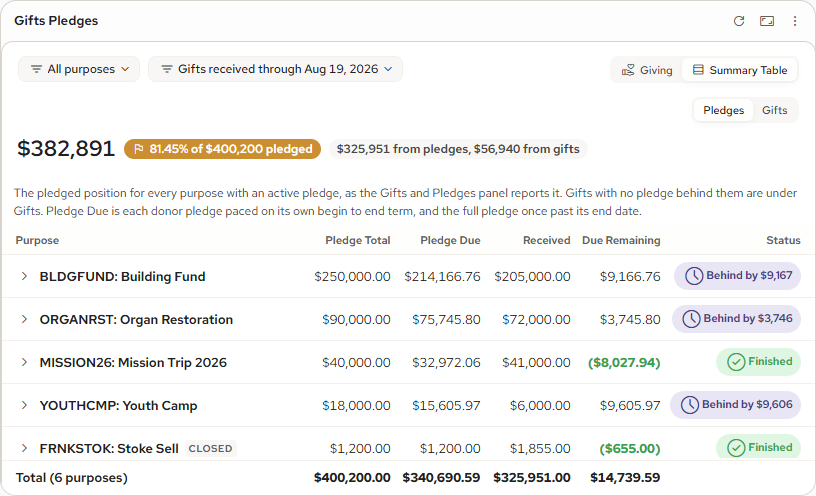
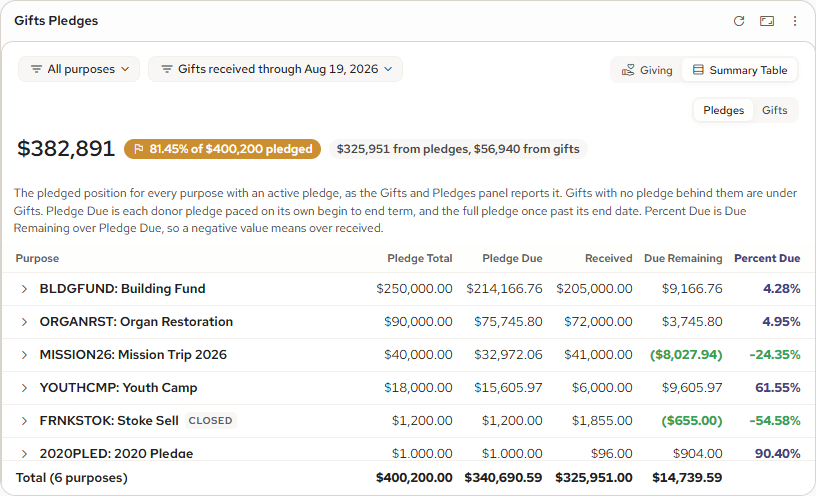
Gifts Pledges: purpose chip back on the Glance, Pledges table shows Percent Due at every size (owner, 11 Oct)
The purpose chip leads the Glance as on Deposits on Hand and Payroll Distributions,
with the pledged pill beside the figure so the Glance keeps its height. The Pledges
table is the panel's six columns everywhere, Status column removed. Driver 1043;
suite 3704 green; three shots retaken; handover bullets updated.

diff --git a/_tools/w17-gifts.driver.js b/_tools/w17-gifts.driver.js
@@ -131,7 +131,7 @@ A.eq(CAMPS[6].pledgeTotal, 0, "Memorial Gifts has no pledge"); A.ok(CAMPS[6].oth
       A.contains(html, "of $", "Glance shows the overall pledged read at " + v);
       A.contains(html, "from pledges", "Glance names the split at " + v);
       A.absent(html, 'data-gpf="view"', "no view toggle at Glance (" + v + ")");
-      A.absent(html, 'data-action="gpF-camp"', "no purpose chip at Glance (" + v + ")"); A.absent(html, 'data-action="gpF-thru"', "no date chip at Glance (" + v + ")");
+      A.contains(html, '<div class="kpi-num">' + ctx.gpFCampChip(w), "the purpose chip leads the Glance, where Deposits on Hand and Payroll Distributions put theirs (owner, 11 Oct)"); A.absent(html, 'data-action="gpF-thru"', "no date chip at Glance (" + v + ")");
       A.absent(html, 'data-gpf="export"', "no export at Glance (" + v + ")");
       A.absent(html, "Gifts and Pledges", "Glance does not repeat the card title inside itself (owner, 28 Sep)");
       A.absent(html, "scope-chip", "and carries no scope chip at all (" + v + ")");
@@ -178,8 +178,10 @@ A.eq(CAMPS[6].pledgeTotal, 0, "Memorial Gifts has no pledge"); A.ok(CAMPS[6].oth
 });
 /* the six baseline columns, in the live product's order */
 const tbl = ctx.gpFContentRoot(fresh("gpF", { size: "xwide", gpFView: "table" }));
-["Purpose", "Pledge Total", "Pledge Due", "Received", "Due Remaining", "Percent Due", "Status"]
+["Purpose", "Pledge Total", "Pledge Due", "Received", "Due Remaining", "Percent Due"]
   .forEach(function (c) { A.contains(tbl, ">" + c + "<", "summary column present: " + c); });
+A.absent(tbl, ">Status<", "no Status column in the Pledges table (owner, 11 Oct: the panel's six columns, Percent Due included)");
+A.contains(ctx.gpFContentRoot(fresh("gpF", { size: "wide", gpFView: "table" })), ">Percent Due<", "Percent Due shows at Explore as well as Detail (owner, 11 Oct)");
 A.contains(tbl, "gpf-total-row", "totals row rendered (her total row class)");
 /* totals sum the first four money columns; Percent Due is NOT summed */
 const totCells = /gpf-sumtotal"[\s\S]*?<\/div>\s*$/.test(tbl) || tbl.indexOf("gpf-sumtotal") > -1;
@@ -747,7 +749,7 @@ A.cssDeclares(shell.css, [
   "gpf-cap", "gpf-tblwrap", "gpf-scroll", "gpf-sumrow", "gpf-sumtotal", "gpf-caret",
   "gpf-nmtxt", "gpf-nm", "gpf-nmsub", "gpf-drill-tbl", "gpf-drawer",
   "gpf-grow", "gpf-gref", "gpf-giftfoot", 
-  "gpf-mi-date", "gpf-datepick", "gpf-date-input", "gpf-c-st", "gpf-thru-long", "gpf-thru-short", "gpf-modal", "gpf-panel", "gpf-panel-h", "gpf-panel-big", "gpf-dot"
+  "gpf-mi-date", "gpf-datepick", "gpf-date-input", "gpf-thru-long", "gpf-thru-short", "gpf-modal", "gpf-panel", "gpf-panel-h", "gpf-panel-big", "gpf-dot"
 ], "every gpf- class our markup uses is declared");
 
 /* ------------------------- 9. the Rule 11 stub, present and labelled */
@@ -1265,8 +1267,8 @@ A.eq((shell.script.match(/gpFCamp:"All purposes",gpFPlExp:\{\}/g) || []).length,
      of the 166px it needs. It is derivable from two columns in the same row, and it stays in
      every row's screen-reader line at every size, so nothing is lost, only moved. */
   const pWide = ctx.gpFPledgesTable(fresh("gpF", { size: "wide", gpFView: "table" }), false);
-  A.absent(pWide, "Percent Due", "Explore drops the Percent Due column");
-  A.absent(pWide, "gpf-c-pct", "and its cells with it, header, rows and totals alike");
+  A.contains(pWide, "Percent Due", "Explore shows the Percent Due column too (owner, 11 Oct: the panel's six columns at every size)");
+  A.contains(pWide, "gpf-c-pct", "with its cells, header, rows and totals alike");
   A.contains(pWide, "percent due ", "while every row still says it to a screen reader");
   A.contains(pTbl, "Percent Due", "Detail keeps the column");
   ["Pledge Total", "Pledge Due", "Received", "Due Remaining"].forEach(function (h) {
@@ -1299,14 +1301,15 @@ A.eq((shell.script.match(/gpFCamp:"All purposes",gpFPlExp:\{\}/g) || []).length,
   A.eq(ctx.gpFStatusLabelRow("gifts", 0), "Gifts only, no pledge", "a gifts-only purpose keeps its own words");
   A.eq(typeof ctx.gpFStatusLabel, "undefined", "the pace-band labeller is gone"); A.eq(typeof ctx.gpFBandFromDays, "undefined", "and the day bands with it");
   ["Fully paid", "Up to date", "30+ days ahead", "About a month behind", "60+ days behind", "Fully funded"].forEach(function (s) { A.absent(block, "'" + s + "'", "old status word gone from the block: " + s); });
-  /* the Status column in the Pledges table */
+  /* the Pledges table stays the panel's own six columns; the status words live in the header badge,
+     the Giving rows and the ledger (owner, 11 Oct, second round: "Remove Status from the table on
+     pledges and change to Percent Due") */
   const pTable = ctx.gpFPledgesTable(tw, false);
-  A.contains(pTable, '<span class="gpf-c-st">Status</span>', "the Pledges table has a Status header (owner, 11 Oct)");
-  A.eq((pTable.match(/class="gpf-c-st"><span class="gpf-dstatus /g) || []).length, rows.length, "and a status chip on every row");
-  A.ok(/gpf-sumtotal[\s\S]*?<span class="gpf-c-st"><\/span>/.test(pTable), "the totals row leaves Status blank");
-  A.headMatchesBody(pTable, "header and body carry the Status cell alike (D12)");
-  A.contains(ctx.gpFPledgesTable(fresh("gpF", { size: "wide", gpFView: "table" }), false), '<span class="gpf-c-st">Status</span>', "Status shows at Explore too");
-  A.contains(shell.css, ".gpf-root .gpf-c-st{", "and has its column rule");
+  A.absent(pTable, "gpf-c-st", "no Status column in the Pledges table"); A.absent(pTable, "gpf-dstatus", "and no status chip in its rows");
+  A.eq(typeof ctx.gpFRowChip, "undefined", "the row chip builder is gone"); A.absent(shell.css, ".gpf-c-st", "and its column rule");
+  A.contains(ctx.gpFPledgesTable(fresh("gpF", { size: "wide", gpFView: "table" }), false), '<span class="gpf-c-n gpf-c-pct">Percent Due</span>', "Percent Due shows at Explore");
+  A.ok(ctx.gpFWidePct(fresh("gpF", { size: "wide" })) === true, "at every size");
+  A.headMatchesBody(pTable, "header and body cells still match (D12)");
   /* per pledge: the same three words, from the pace object */
   const purpose = ctx.gpFCampByLabel(tw, LABELS[2]), thru = ctx.gpFThru(tw);
   const paces = ctx.gpFDonorsFor(purpose).map(function (pl) { return ctx.gpFDonorPace(pl, thru); });

diff --git a/handover.html b/handover.html
@@ -1072,12 +1072,12 @@ main{padding:20px 16px 60px} .widget{padding:18px 16px} .pair-grid{grid-template
 <p>V2 keeps V1's frame: a date chip and a purpose chip, a two-way view switch (V1 called the views Progress and Table; V2 calls them Giving and Summary Table), one bar per purpose, a purpose table with totals, and a pop-up opened from a bar or a row (V1's listed the donors behind a purpose; V2's is "Pop-up - Giving ledger"). It changes seven things:</p>
 <ol>
 <li><strong>What counts.</strong> V2 shows all money given to a purpose in two named parts: payments against a pledge, and gifts with no pledge. A purpose with gifts but no pledge now appears. V1 counted pledge payments only.</li>
-<li><strong>The goal is retired.</strong> V1 measured each purpose against a "goal" (its pledge total): "% of goal", "$5,050 behind", "Fully funded". V2 states the money given; the only percentage left is the headline's pledge payments over the pledge total. Each purpose and each pledge carries one of three words instead: Finished, On track, or Behind by the amount.</li>
+<li><strong>The goal is retired.</strong> V1 measured each purpose against a "goal" (its pledge total): "% of goal", "$5,050 behind", "Fully funded". V2 states the money given; the only percentage left is the headline's pledge payments over the pledge total. Each purpose carries one of three words instead, in the header badge, on its Giving row and in the ledger, and so does each pledge: Finished, On track, or Behind by the amount.</li>
 <li><strong>The date control.</strong> One "Gifts received through" date, as V1 had it (Today, End of last month, or a chosen date), now on the dashboard's standard chip and menu, the same control Remittance Pledges uses. Every figure is read as of that date.</li>
 <li><strong>The Giving bars.</strong> Three segments that always fill the track (pledge payments, still expected, gifts), most received first, with a figures line under each. V1 drew a thermometer with a hatched shortfall, a due marker and a % fulfilled.</li>
 <li><strong>The Summary Table splits in two.</strong> Pledges reproduces the legacy Gifts and Pledges panel column for column; Gifts lists the money with no pledge. Neither is sortable. V1 had one sortable table.</li>
 <li><strong>The pop-up becomes a giving ledger.</strong> Every gift and pledge for the purpose, largest first, with an All / Pledges / Gifts filter, a search box, sortable columns, rows that open to their history, and a download control top right. V1 listed donors most behind first.</li>
-<li><strong>Detail and Glance.</strong> Detail gains the view switch (V1 showed only "Progress toward goal" there). Glance drops the purpose chip and the "N purposes behind schedule" line for a split bar and a one-line split.</li>
+<li><strong>Detail and Glance.</strong> Detail gains the view switch (V1 showed only "Progress toward goal" there). Glance keeps the purpose chip and replaces the "N purposes behind schedule" line with a split bar and a one-line split.</li>
 </ol>
 <p>Everything else (the card menu, the chip row, the view switch top right, the loading skeleton, the empty state, Close) is in the same place as V1. The demos use different sample data and anchor dates, so every figure, name and row count in the screenshots differs for that reason alone.</p>
 <h3>What's Different</h3>
@@ -1089,7 +1089,7 @@ main{padding:20px 16px 60px} .widget{padding:18px 16px} .pair-grid{grid-template
 <h4>Headline</h4>
 <ul>
 <li><strong>Glance, Explore, Detail:</strong> the big figure is everything given; a pill reads "81.45% of $400,200 pledged" and a grey chip splits it, "$325,951 from pledges, $56,940 from gifts". V1 showed pledge payments, a status pill ("$5,050 behind", "On track", "Fully funded") and "58% of goal".</li>
-<li><strong>Glance:</strong> a three-segment bar and a one-line caption ("$325,951 from pledges, $56,940 from gifts"). V1 had the All purposes chip, a small bar with a due marker and "3 purposes behind schedule".</li>
+<li><strong>Glance:</strong> the purpose chip first, where Deposits on Hand and Payroll Distributions put theirs, then the total with the pledged pill beside it, a three-segment bar and a one-line caption ("$325,951 from pledges, $56,940 from gifts"). V1 had the same chip, a small bar with a due marker and "3 purposes behind schedule".</li>
 </ul>
 <h4>Giving</h4>
 <ul>
@@ -1099,7 +1099,7 @@ main{padding:20px 16px 60px} .widget{padding:18px 16px} .pair-grid{grid-template
 <h4>Table</h4>
 <ul>
 <li><strong>Explore - Summary Table, Detail:</strong> a Pledges / Gifts switch on its own line under the view switch, right-aligned, only while the table is up. New in V2.</li>
-<li><strong>Explore - Summary Table:</strong> Pledges has Purpose, Pledge Total, Pledge Due, Received, Due Remaining, Percent Due at Detail only, and Status (Finished, On track, or Behind by the amount); amounts to the cent; largest Pledge Total first; over-received Due Remaining in green parentheses; a caption; a "Total (6 purposes)" row. Only purposes with an active pledge are listed. V1 had Pledged, Due by date, Received, Remaining and % Fulfilled, every header sortable, in whole dollars.</li>
+<li><strong>Explore - Summary Table:</strong> Pledges has the panel's six columns at every size: Purpose, Pledge Total, Pledge Due, Received, Due Remaining and Percent Due; amounts to the cent; largest Pledge Total first; over-received Due Remaining in green parentheses; a caption; a "Total (6 purposes)" row. Only purposes with an active pledge are listed. V1 had Pledged, Due by date, Received, Remaining and % Fulfilled, every header sortable, in whole dollars.</li>
 <li><strong>Explore - Summary Table gifts:</strong> Gifts has Purpose ("Also has pledges" or "No pledges" beneath), Gifts, Donors and Total, left-aligned, largest first, with its own totals row. A row opens the ledger filtered to Gifts. Not in V1.</li>
 </ul>
 <h4>Pop-up</h4>

diff --git a/index.html b/index.html
@@ -1919,7 +1919,6 @@
   .gpf-root .gpf-c-nm{flex:1 1 auto;min-width:0;overflow:hidden;text-overflow:ellipsis;white-space:nowrap;font-weight:600;}
   .gpf-root .gpf-c-n{flex:0 0 auto;width:82px;text-align:right;font-variant-numeric:tabular-nums;}
   .gpf-root .gpf-c-pct{width:70px;font-weight:650;color:var(--am-700);}
-  .gpf-root .gpf-c-st{flex:0 0 auto;width:132px;display:inline-flex;justify-content:flex-end;}
   .gpf-root .gpf-trow.gpf-clickable:hover{background:var(--wn-100);}
   /* align-self:stretch (owner, 9 Oct): .kpi-num aligns children to content width, which left the bar as wide as its caption */
   .gpf-root .gpf-glance-read{display:flex;flex-direction:column;gap:var(--gap-xxtight);margin-top:var(--padding-tight);align-self:stretch;}
@@ -10400,10 +10399,11 @@ function gpFPledgedRead(t){
 
 function gpFGlance(w){
   var t=gpFTotals(w),lbl=gpFStatusLabelRow(t.status,t.dueRem),col=gpFStatusColor(t.status);
-  var pill=gpFPledgedPill(t,col,true);
-  return '<div class="kpi-row"><div class="kpi-num">'+
-    '<div class="metric-value">'+gpFMoney0(t.totalIn)+'</div>'+
-    '<div class="gl-sub">'+pill+'</div>'+
+  /* chip, then the figure with its pledged pill beside it (the Explore header's own arrangement), then
+     the bar and caption: four lines would not fit the Glance height once the chip came back (owner, 11 Oct) */
+  var pill=gpFPledgedPill(t,col);
+  return '<div class="kpi-row"><div class="kpi-num">'+gpFCampChip(w)+
+    '<div class="dep-hd-kpigrp"><span class="metric-value">'+gpFMoney0(t.totalIn)+'</span>'+pill+'</div>'+
     '<div class="gpf-glance-read">'+gpFSplitBar(t,true)+
       '<span class="gpf-glance-cap'+(t.status==='funded'?' gpf-cap-ok':'')+'">'+gpFSplitLineShort(t)+'</span></div>'+
     '<span class="sr-only">'+gpFMoney0(t.totalIn)+' received across '+t.count+' purpose'+(t.count===1?'':'s')+'. '+gpFSplitLine(t)+'. '+lbl+'.</span>'+
@@ -10452,10 +10452,8 @@ function gpFGoalBars(w){return gpFGivingBars(w);}
    widget, a deliberate departure from her sortable column headers. Rows expand to the
    donor breakdown. The totals row sums the first four money columns; Percent Due is
    NOT summed. */
-/* Percent Due shows at Detail only. Measured: with it, the purpose name has 57px of the
-   166px it needs at Explore. It is the one column derivable from two others in the same row,
-   and it stays in every row's screen-reader line at every size. */
-function gpFWidePct(w){return (w&&w.size==="xwide");}
+/* Percent Due shows at every size, as the legacy panel shows it (owner, 11 Oct). */
+function gpFWidePct(w){return true;}
 function gpFSummaryHead(w){
   return '<div class="wt-row wt-head gpf-trow">'+
     '<span class="gpf-c-nm">Purpose</span>'+
@@ -10464,13 +10462,7 @@ function gpFSummaryHead(w){
     '<span class="gpf-c-n">Received</span>'+
     '<span class="gpf-c-n">Due Remaining</span>'+
     (gpFWidePct(w)?'<span class="gpf-c-n gpf-c-pct">Percent Due</span>':'')+
-    '<span class="gpf-c-st">Status</span>'+
   '</div>';
-}
-/* The purpose's status as a chip: Finished, On track, or Behind with the amount (owner, 11 Oct). */
-function gpFRowChip(r){
-  var behind=(r.status==='behind'),ic={funded:'check_circle',ontrack:'check',behind:'schedule'}[r.status]||'remove';
-  return '<span class="gpf-dstatus '+(behind?'gpf-dstatus-behind':'gpf-dstatus-ok')+'">'+ICON(ic)+gpFStatusLabelRow(r.status,r.dueRem)+'</span>';
 }
 /* A row opens the giving ledger, the same pop-up the Giving bars open, so a
    purpose behaves the same way wherever it is selected. It used to expand an
@@ -10487,7 +10479,6 @@ function gpFSummaryRow(w,r){
     '<span class="gpf-c-n">'+gpFMoney(r.fromPledges)+'</span>'+
     '<span class="gpf-c-n">'+gpFDueCell(r.dueRem)+'</span>'+
     (gpFWidePct(w)?('<span class="gpf-c-n gpf-c-pct">'+gpFPctCell(r.percentDue)+'</span>'):'')+
-    '<span class="gpf-c-st">'+gpFRowChip(r)+'</span>'+
   '</div>';
 }
 /* The table view dispatches to one read or the other. Neither borrows a figure from the
@@ -10511,7 +10502,6 @@ function gpFPledgesTable(w,trim){
     '<span class="gpf-c-n">'+gpFMoney(t.fromPledges)+'</span>'+
     '<span class="gpf-c-n">'+gpFDueCell(t.dueRem)+'</span>'+
     (gpFWidePct(w)?'<span class="gpf-c-n gpf-c-pct"></span>':'')+
-    '<span class="gpf-c-st"></span>'+
   '</div>');
   var cap='<div class="gpf-ctx gpf-cap"><span>The pledged position for every purpose with an active pledge, as the Gifts and Pledges panel reports it. Gifts with no pledge behind them are under Gifts. Pledge Due is each donor pledge paced on its own begin to end term, and the full pledge once past its end date.'+(gpFWidePct(w)?' Percent Due is Due Remaining over Pledge Due, so a negative value means over received.':'')+(trim?' Largest pledges first.':'')+'</span></div>';
   return '<div class="gpf-tblwrap">'+cap+'<div class="scroll gpf-scroll">'+gpFSummaryHead(w)+body+'</div>'+tot+'</div>';

diff --git a/docs/decisions/W17.md b/docs/decisions/W17.md
@@ -463,3 +463,4 @@ Owner, 11 Oct, after reviewing the logic draft: "the time filter does not make f
 - **Sample data.** Each pledge's paid amount is proportional to its own pledge, two in three weighted up to finish, one in three weighted down to read Behind, capped at the pledge; the clipped remainder flows to pledges with room so the rows still sum exactly to the purpose's figure. Only a purpose whose receipts exceed its pledges (FRNKSTOK, MISSION26) over-pays. Purpose totals untouched, so every purpose-level figure in the handover holds. 85 of 185 current pledges read Behind.
 - **Verification.** Driver rewritten where the range model was (sections 1, 3, 4, 5, 7, 8, 11, 12, 14, 15) and two sections added: 17 (three words, Status column, sort behaviour, Total given, data checks) and 18 (hosted shell: both menus registered, trigger selectors, popContent). 1041 assertions for W17 (was 853); suite 3702 green. Lint unchanged apart from T2, one legitimate media-query override of the chip's short form. Headless at 1920 and 1536: chip row on one line, the dates menu renders as the shell's pop-over, End of last month moves the header, bars and ledger, Status column and sorted ledger read as designed, no overflow.
 - Handover section rewritten and all six V2 shots retaken; see the 11 Oct commit.
+- **Second round, same day (owner, from the screenshots): "Add purpose section to glimpse, check other widgets for where it should go to match other widgets. Remove Status from the table on pledges and change to Percent Due."** The purpose chip leads the Glance, first in the figure column as Deposits on Hand and Payroll Distributions place theirs; to keep four lines inside the Glance height the pledged pill sits beside the big figure, the Explore header's own arrangement (at the owner's 125% zoom it wraps under the figure and still fits). The Pledges table is the panel's six columns at every size, Percent Due included (it had been Detail only since 28 Sep); its Status column and chip are gone, the three words staying on the header badge, the Giving rows and the ledger. Driver 1043; suite 3704 green; shots 01, 03 and 04 retaken; handover Overview, Glance and Table bullets updated.
